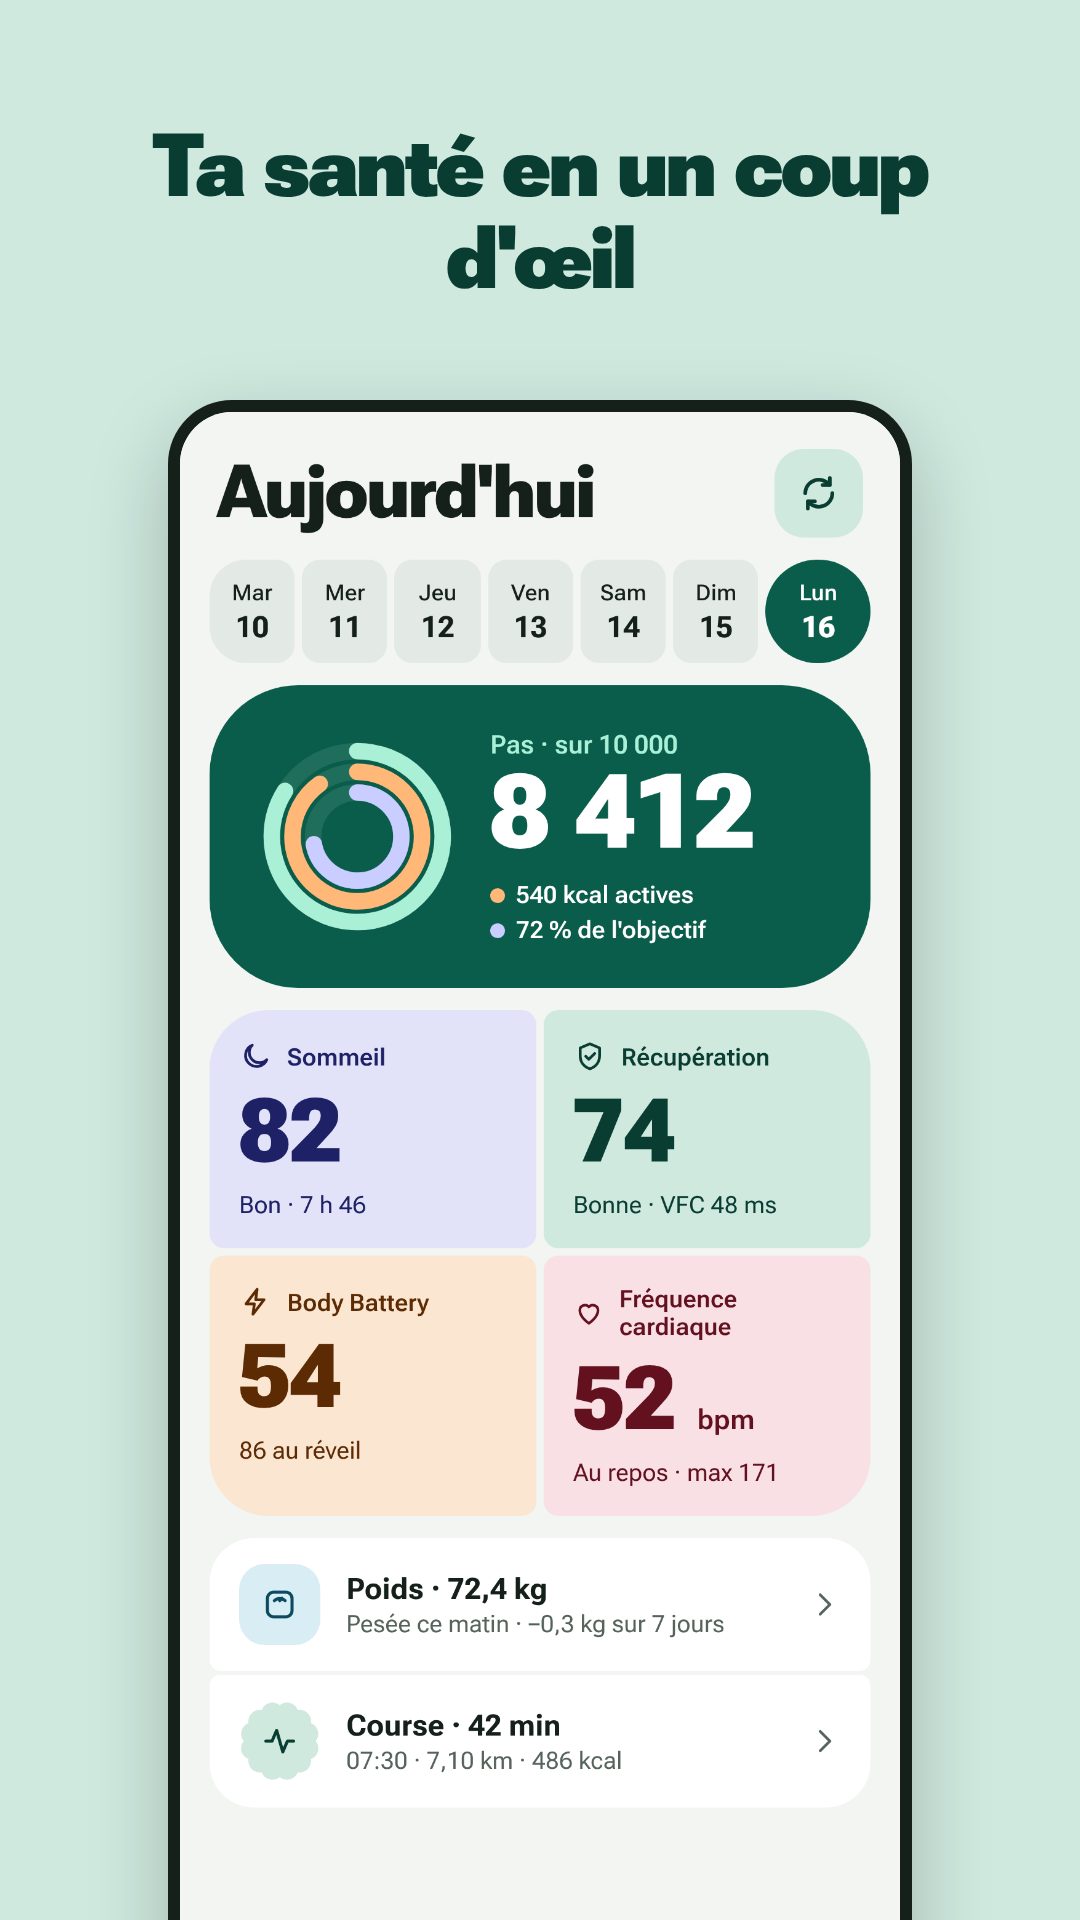
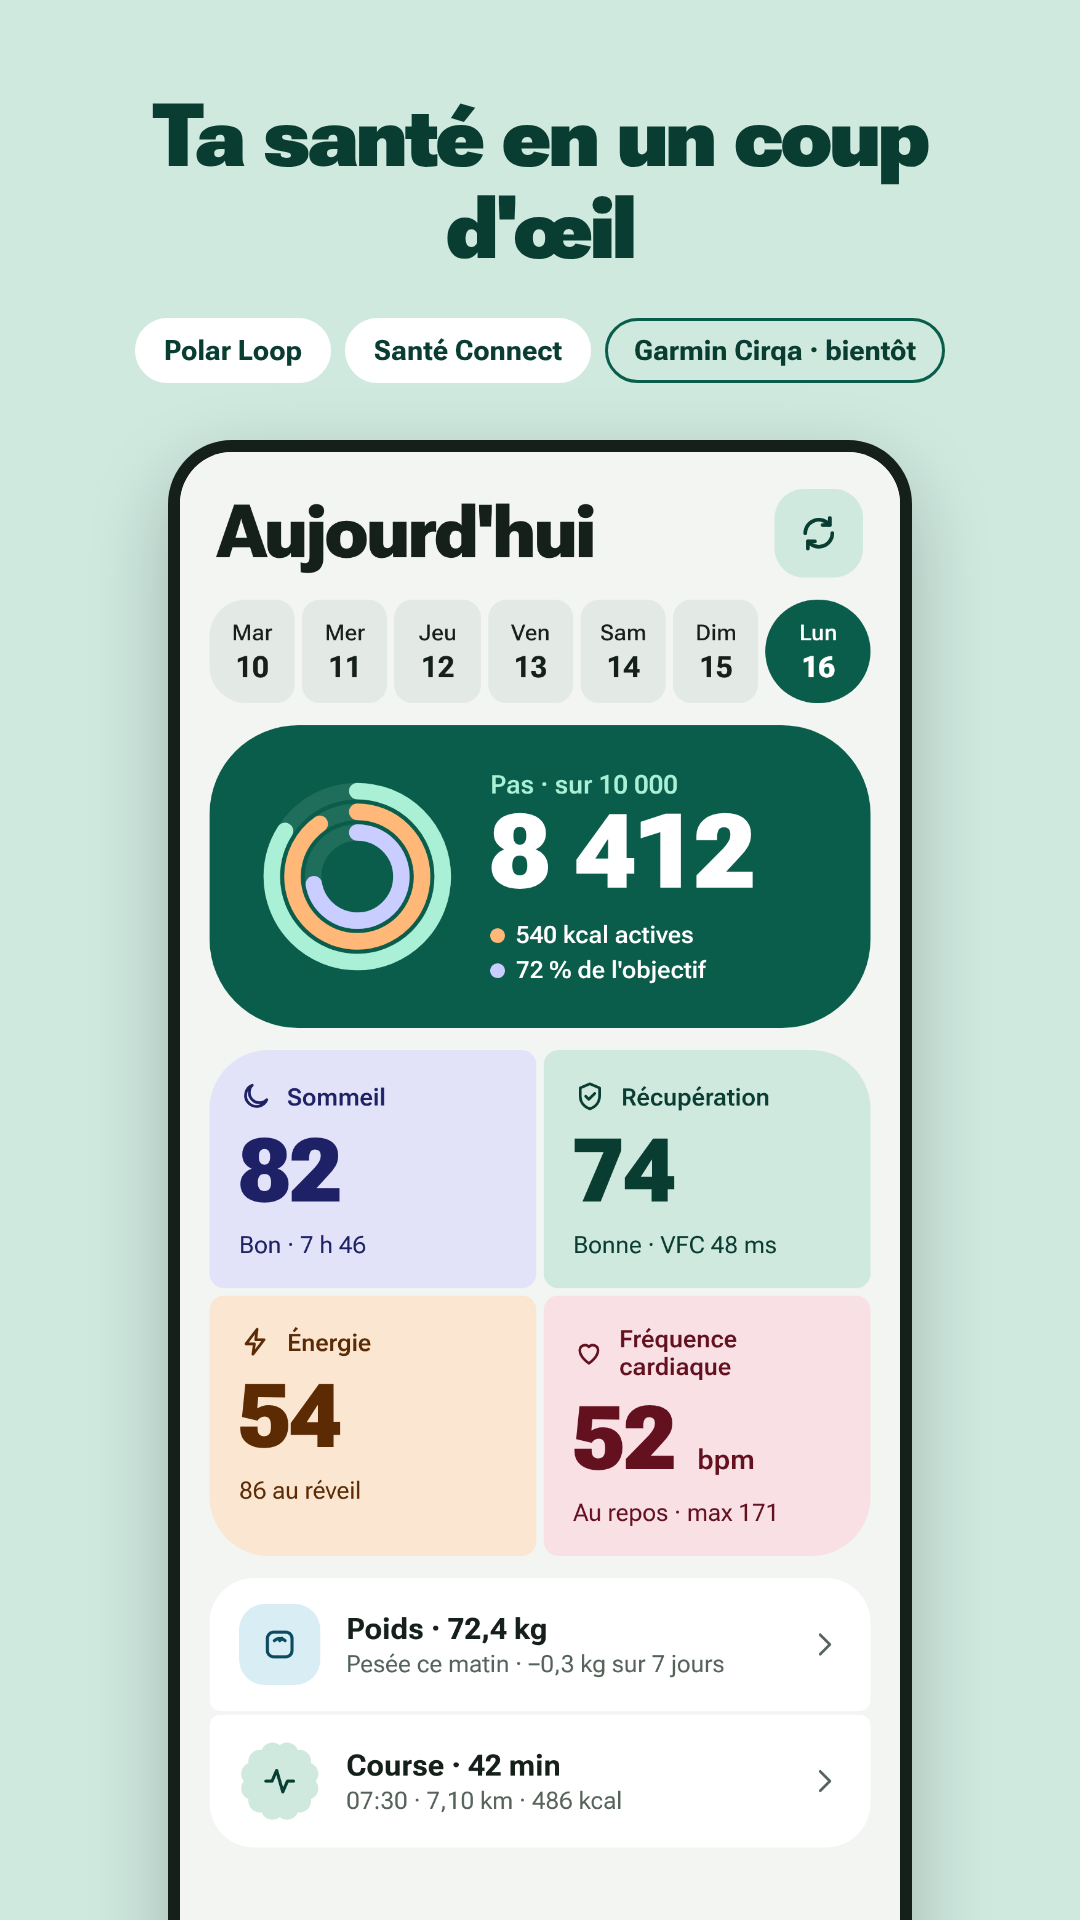
Rename Body Battery to Énergie and add compatibility chips to the first screenshot
Claude-Session: https://claude.ai/code/session_011JsnnFsuEn3KnTT2A6o3Yq

Changed region(s): [[0.1222, 0.0312, 0.8556, 0.9688], [0.7944, 0.4688, 0.825, 0.5]]

diff --git a/design/maquette/Energie.dc.html b/design/maquette/Energie.dc.html
@@ -2,7 +2,7 @@
 <html lang="fr">
 <head>
 <meta charset="utf-8">
-<title>Boucle — Body Battery</title>
+<title>Boucle — Énergie</title>
 <script src="./support.js"></script>
 </head>
 <body>
@@ -20,7 +20,7 @@ a{color:#0B5D4B}a:hover{color:#083F33}
 <a href="Main.dc.html" aria-label="Retour à Aujourd'hui" style="width: 44px; height: 44px; border-radius: 999px; display: flex; align-items: center; justify-content: center; color: #16201B">
 <svg aria-hidden="true" width="22" height="22" viewBox="0 0 24 24" fill="none" stroke="currentColor" stroke-width="2" stroke-linecap="round" stroke-linejoin="round"><path d="M19 12H5M11 6l-6 6 6 6"/></svg>
 </a>
-<h1 style="margin: 0; font-family: 'Roboto Flex', sans-serif; font-size: 26px; font-weight: 700">Body Battery</h1>
+<h1 style="margin: 0; font-family: 'Roboto Flex', sans-serif; font-size: 26px; font-weight: 700">Énergie</h1>
 </header>
 
 <main style="display: flex; flex-direction: column; gap: 12px; padding: 8px 16px 24px">
@@ -75,7 +75,7 @@ a{color:#0B5D4B}a:hover{color:#083F33}
 </div>
 </section>
 
-<p style="margin: 0; padding: 0 4px; font-size: 13px; line-height: 1.45; color: #55635B">Modèle maison : le sommeil recharge, l'activité et le stress consomment, le calme recharge un peu. Ce n'est pas l'algorithme de Garmin.</p>
+<p style="margin: 0; padding: 0 4px; font-size: 13px; line-height: 1.45; color: #55635B">Modèle maison : le sommeil recharge, l'activité et le stress consomment, le calme recharge un peu.</p>
 
 </main>
 </div>

diff --git a/app/src/main/java/com/boucle/app/ui/screens/EnergyScreen.kt b/app/src/main/java/com/boucle/app/ui/screens/EnergyScreen.kt
@@ -70,7 +70,7 @@ fun EnergyScreen(
     modifier: Modifier = Modifier,
 ) {
     Column(modifier) {
-        DetailHeader("Body Battery", onBack)
+        DetailHeader("Énergie", onBack)
         Column(
             Modifier
                 .weight(1f)
@@ -87,7 +87,7 @@ fun EnergyScreen(
             EnergyDayCard(battery, state, Modifier.staggeredEntrance(1))
             EnergyTiles(battery, Modifier.staggeredEntrance(2))
             Text(
-                "Modèle maison : le sommeil recharge, l'activité et le stress consomment, le calme recharge un peu. Ce n'est pas l'algorithme de Garmin.",
+                "Modèle maison : le sommeil recharge, l'activité et le stress consomment, le calme recharge un peu.",
                 style = BoucleType.small,
                 color = BoucleColors.OnSurfaceVariant,
                 modifier = Modifier
@@ -221,7 +221,7 @@ private fun EnergyEmpty(modifier: Modifier = Modifier) {
         contentPadding = PaddingValues(horizontal = 20.dp, vertical = 24.dp),
         verticalArrangement = Arrangement.spacedBy(6.dp),
     ) {
-        Text("Pas encore de Body Battery", style = BoucleType.rowTitle)
+        Text("Pas encore de niveau d'énergie", style = BoucleType.rowTitle)
         Text(
             "Le niveau d'énergie se calcule à partir de ton sommeil, de ton activité et de ta fréquence cardiaque. Porte le bracelet et synchronise-le pour le voir apparaître.",
             style = BoucleType.small,

diff --git a/design/maquette/Main.dc.html b/design/maquette/Main.dc.html
@@ -75,7 +75,7 @@ Récupération</span>
 <a href="Energie.dc.html" style="display: flex; flex-direction: column; gap: 8px; padding: 16px; border-radius: 8px 8px 8px 32px; background: #FBE6D2; color: #5C2B04; text-decoration: none">
 <span style="display: flex; align-items: center; gap: 8px; font-size: 13px; font-weight: 600">
 <svg aria-hidden="true" width="18" height="18" viewBox="0 0 24 24" fill="none" stroke="currentColor" stroke-width="2" stroke-linecap="round" stroke-linejoin="round"><path d="M13 3L5 13.500h6L10 21l8-10.500h-6L13 3z"/></svg>
-Body Battery</span>
+Énergie</span>
 <span style="font-size: 48px; font-weight: 800; line-height: 1">54</span>
 <span style="font-size: 13px">86 au réveil</span>
 </a>

diff --git a/app/src/main/java/com/boucle/app/ui/screens/TodayScreen.kt b/app/src/main/java/com/boucle/app/ui/screens/TodayScreen.kt
@@ -339,7 +339,7 @@ private fun MetricGrid(day: DayUiState, onNavigate: (Destination) -> Unit, modif
         }
         Row(Modifier.height(IntrinsicSize.Min), horizontalArrangement = Arrangement.spacedBy(4.dp)) {
             MetricTile(
-                label = "Body Battery",
+                label = "Énergie",
                 icon = BoucleIcons.Bolt,
                 colors = MetricPalette.Energy,
                 radii = Radii.GridBottomStart,

diff --git a/design/README.md b/design/README.md
@@ -12,7 +12,7 @@ sur le canevas. L'app doit rester fidèle à ces écrans.
 | Aujourd'hui | `Main.dc.html` | `TodayScreen` |
 | Sommeil | `Sommeil.dc.html` | `SleepScreen` |
 | Récupération | `Recuperation.dc.html` | `RecoveryScreen` |
-| Body Battery | `Energie.dc.html` | `EnergyScreen` |
+| Énergie | `Energie.dc.html` | `EnergyScreen` |
 | Fréquence cardiaque | `Coeur.dc.html` | `HeartScreen` |
 | Forme | `Activite.dc.html` | `ActivityScreen` |
 | VO2max | `Vo2max.dc.html` | `Vo2MaxScreen` |
